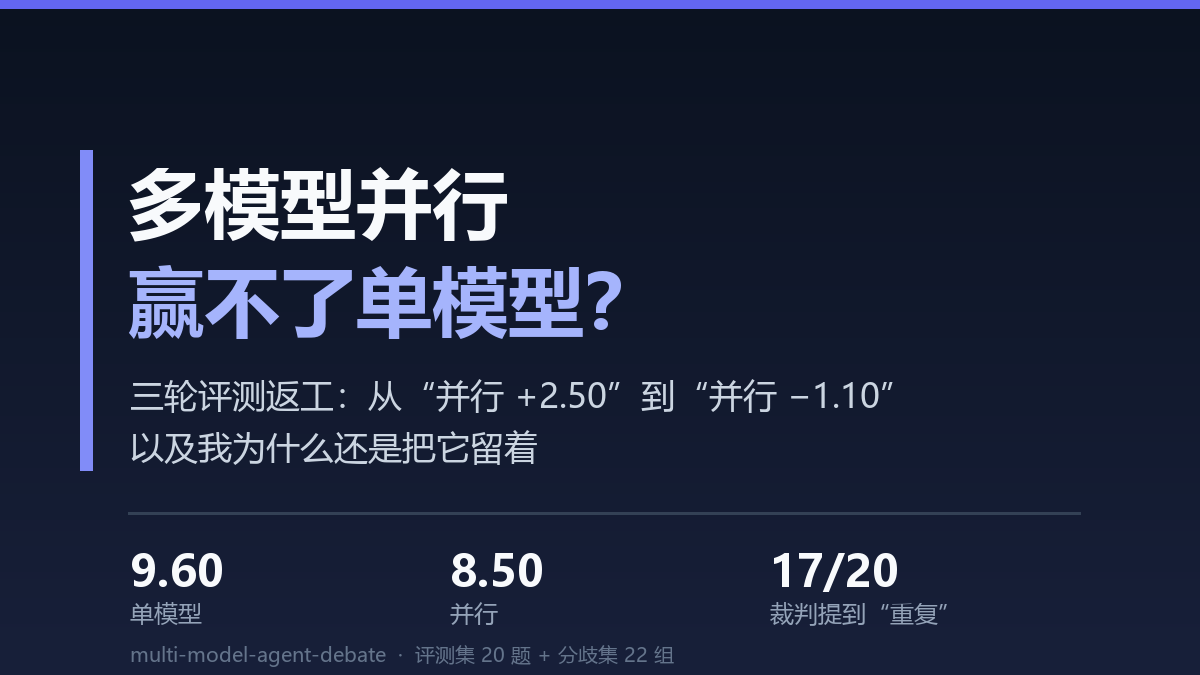
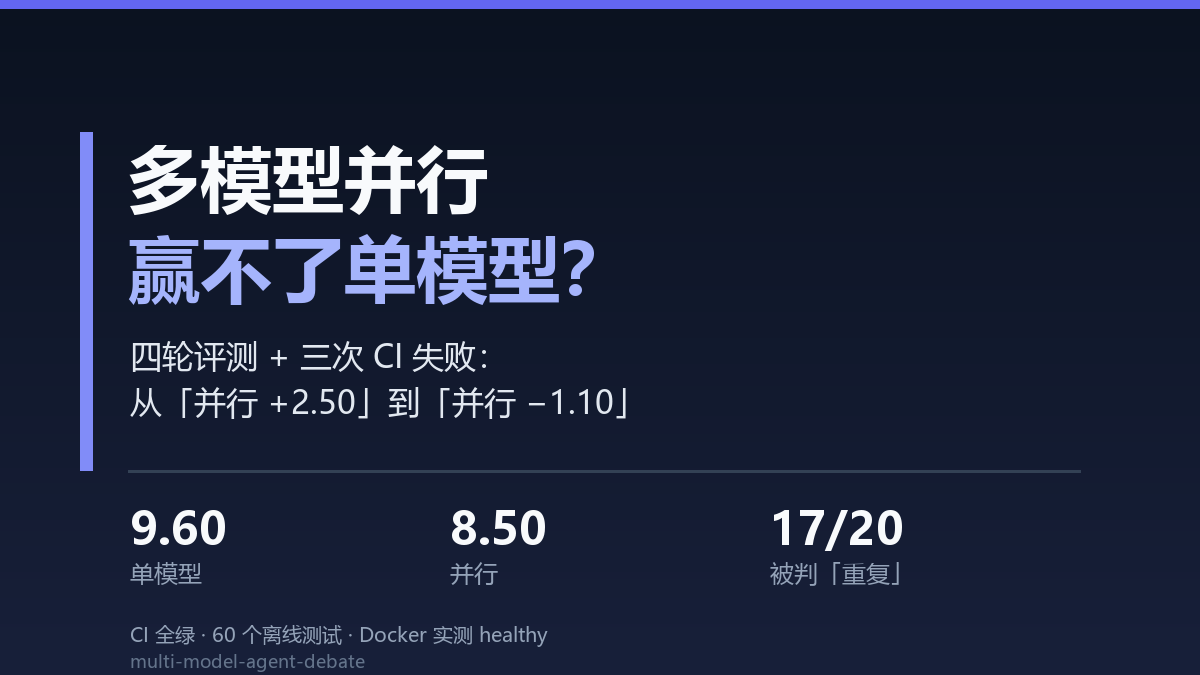
docs(article): 补 CI 三次红、Docker 实跑、单实例锁；重做封面
文章从「四轮评测」扩到也覆盖工程化：
  - 测试数 37 → 60
  - 新增 CI 连续红三轮的真实原因（依赖 / 死代码 / 测试数据）
  - 新增 Docker 首次实跑就炸（容器内下不了模型 → 挂载缓存）
  - 新增单实例锁（database is locked 的真因是两个进程）
  - 加模型版本脚注：评测用 Kimi K3，仓库现在已换 K2.7 Code / Qwen4 Max

封面重做，底部改为「CI 全绿 · 60 个离线测试 · Docker 实测 healthy」。

diff --git a/docs/articles/multi-model-parallel-eval.md b/docs/articles/multi-model-parallel-eval.md
@@ -19,6 +19,8 @@
 
 差值 1.10，95% 置信区间 [0.60, 1.60]，20 题里**并行赢 3 题、输 17 题**。
 
+> 注：评测时单模型臂用的是 Kimi K3。仓库现在的默认阵容已换成 Kimi K2.7 Code / Qwen4 Max / DeepSeek V4 Pro / GLM-4.6，数据未重跑；模型换代会改变绝对分，但不改变「并行输在输出形态」这个结论。
+
 **它确实更差，而且慢一倍。** 但我还是把它留着了——原因在后面。
 
 ---
@@ -174,7 +176,7 @@ q11 单=1.0  同上
 
 评测返工逼出来一堆东西，比功能本身更有价值：
 
-**1. 37 个离线测试**（不调模型、不花钱）
+**1. 60 个离线测试**（不调模型、不花钱）
 
 ```
 test_divergence.py      编造引文必须降级；同立场必须合并成一组
@@ -194,7 +196,32 @@ test_benchmark_grading  评分逻辑本身也要有测试
 
 注册表为空、分层引用了已删除的模型、目录不可写——这些以前要等用户点发送才 500，现在启动就报，`/health` 返回 503。
 
-**3. 三篇 ADR**（记录「不做什么」和「为什么」）
+**3. CI 真的跑起来了（但红了三次）**
+
+配 CI 之前我以为这是最简单的一步，结果连续红了三轮，每次原因都不同：
+
+```
+第一轮  只装了 7 个包，而导入链要 langchain / torch → 一个用例都没跑起来
+第二轮  修完依赖，ruff 报 4 个 F821：重构时 return 后面留了一段死代码
+第三轮  测试数据对不上：CI 用 dummy 注册表，而用例断言「分层里的模型必须在注册表里」
+```
+
+现在两个 job 全绿：`test`（lint + 60 个测试，约 30 秒）和 `docker-build`。
+
+**4. Docker 真的能起**（之前只有文件，没人跑过）
+
+之前 compose 文件一直有，但没人跑过——
+第一次跑就炸：容器里连不上 HuggingFace 下载模型。改成挂载宿主机缓存后，
+容器 `health=healthy`、`/health` 返回 `models=5, problems=[]`。
+
+**5. 单实例锁**（踩过两次 `database is locked`）
+
+同一个会话里踩过两次 `database is locked`，
+一开始以为是 WAL 没开，其实 WAL 早就开了——是同时起了两个进程。
+修法不是加重试，而是**让第二个进程根本起不来**：启动时对锁文件加操作系统级排他锁，
+进程退出自动释放。顺带补了 `busy_timeout` 和一致性备份（WAL 下直接 cp 数据库文件会丢数据）。
+
+**6. 三篇 ADR**（记录「不做什么」和「为什么」）
 
 包括被否掉的方案：给分歧分析加一层 LLM 复核后，**误报归零，但真分歧也杀掉一半**（检出 91.7% → 67%）。所以复核默认关闭。
 
